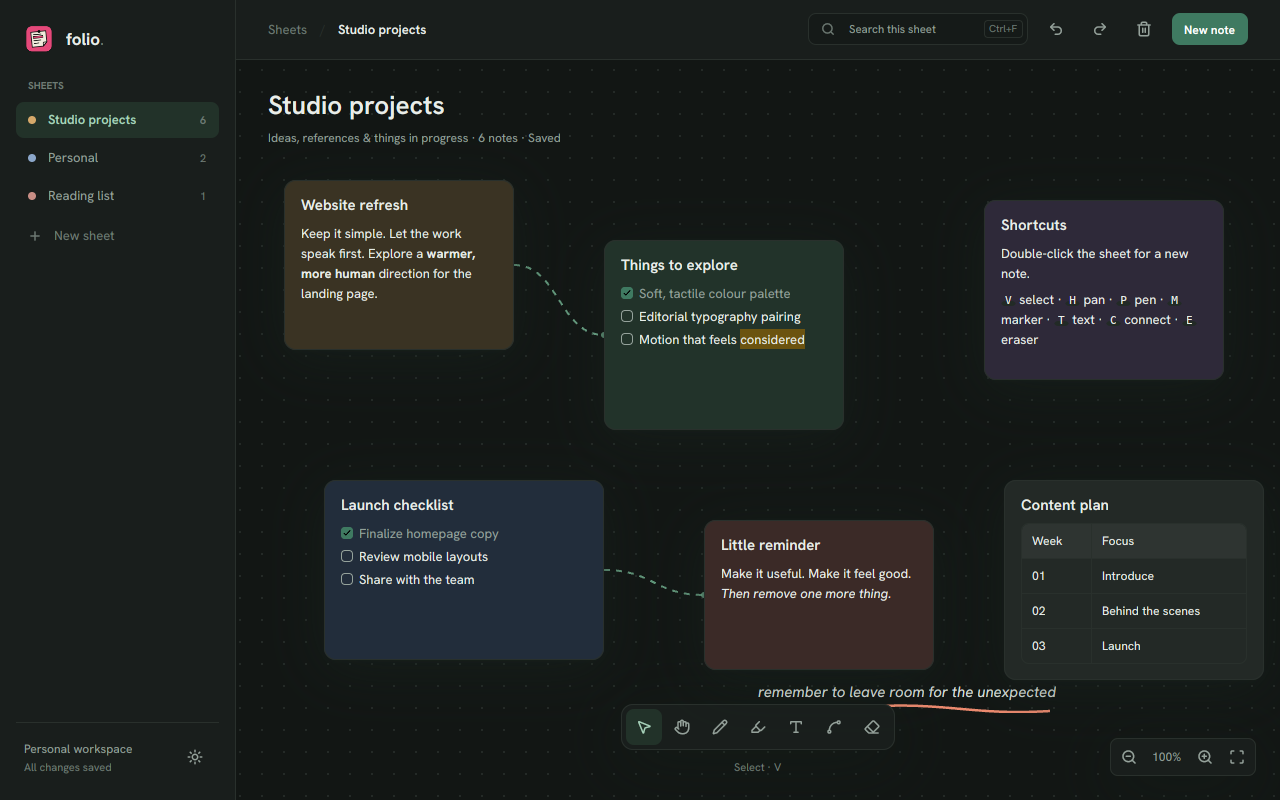
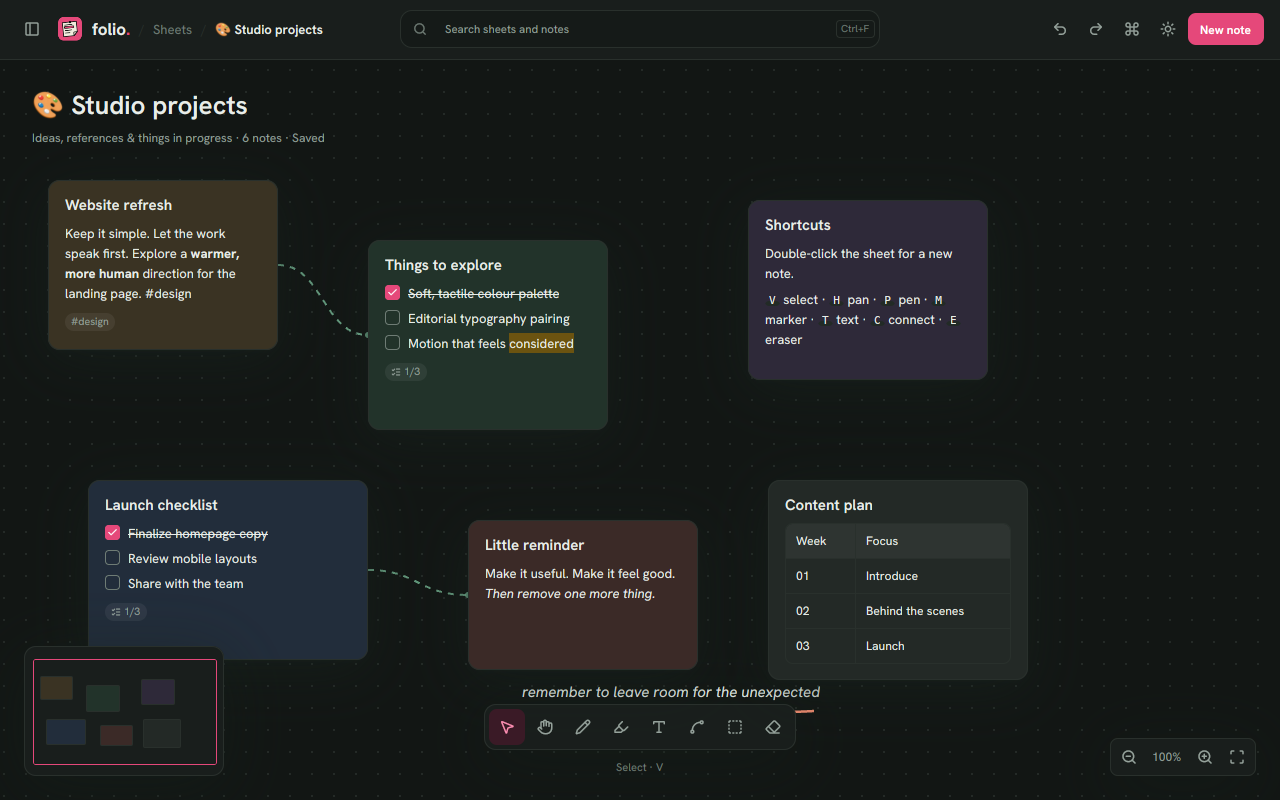
Docs, screenshots and the cursor at the end when editing
- README and docs/PLAN.md describe v0.2: what's built, what's planned,
  and what was only built (not run) for Windows.
- scripts/screenshots.sh walks the new flow: intro, home, drawer, a
  sheet, a note's menu, editing in place, the palette, Settings.
- Editing a note puts the cursor after its text.

Claude-Session: https://claude.ai/code/session_01VKbkuhtmTvU5LvyRBDbfss

diff --git a/src/ui/app.rs b/src/ui/app.rs
@@ -787,7 +787,12 @@ impl Folio {
             self.before = Some(self.board.clone());
         }
         self.title_input.update(cx, |i, cx| i.set_value(title.clone(), window, cx));
-        self.body_input.update(cx, |i, cx| i.set_value(body, window, cx));
+        // The cursor goes to the end of the text, ready to add to it.
+        let end = body.len();
+        self.body_input.update(cx, |i, cx| {
+            i.set_value(body, window, cx);
+            i.set_selected_range(end..end, cx);
+        });
         self.editing = Some(Edit { id, is_new });
         self.menu = None;
         self.select(Selection::Sticker(id));

diff --git a/docs/PLAN.md b/docs/PLAN.md
@@ -13,23 +13,23 @@ and what is still to come.
 
 ### What it has to do
 
-| Capability | v0.1 | Planned |
+| Capability | Built (v0.2) | Planned |
 |---|---|---|
-| Categories as separate sheets, each with its own content and camera | ✅ sidebar, add, rename (double-click), delete (undoable), Ctrl+Tab between them | reorder by drag, sheet colours/icons, archive |
-| Freeform canvas: pan, zoom, drag stickers | ✅ drag to pan, wheel to scroll, Ctrl+wheel zooms at the cursor, zoom to fit; drag and resize stickers; the sticker you drag comes to the front | snapping and alignment guides, multi-select with a marquee, group move |
-| Sticker styling | ✅ 6 papers (light and dark), 3 text sizes, resizable | per-sticker font (sans, serif, mono, hand), border and shadow styles, slight tilt, pin/lock |
-| Plain and rich text | ✅ Markdown: bold, italic, lists, task lists, code, headings | WYSIWYG inline editing on the sticker itself |
-| Coloured text | ✅ coloured **highlights** (`<mark color="green">…</mark>`; 7 named colours, retuned for dark mode) | coloured **foreground** text via a Markdown extension (see §4.1) |
-| Markdown tables | ✅ rendered on the sticker | table editing grid |
-| Images | ✅ PNG, JPEG, WebP, GIF (**animated GIFs play**), SVG (static); drop files on the sheet, paste from the clipboard, or *Add picture…* in the editor | crop, caption, image-only stickers that keep the image's aspect ratio |
-| Animated SVG | ⚠ shown as a still image (first frame) | an SMIL animator: see §4.2 |
-| Text written directly on the sheet | ✅ Text tool (T): italic labels in 5 inks, movable, editable | font size, rotation |
-| Freehand drawing on the sheet | ✅ Pen (P), Marker (M, translucent), Eraser (E); strokes are smoothed and simplified | pressure, shapes (rect, ellipse, arrow, line), lasso select of ink |
-| Lines linking stickers | ✅ Connect (C): drag from one sticker to another; curved, dashed, follow the stickers when they move; drag again to remove | arrowheads, labels on links, straight/elbow styles, links to labels and ink |
-| Search | ✅ dims notes on this sheet that don't match | search across all sheets, with jump-to |
-| Undo / redo | ✅ every content change, 100 steps; camera moves don't count | command-based history (§5.5) |
-| Dark mode | ✅ Ctrl+Shift+L, remembered | follow the system setting |
-| Persistence | ✅ autosaves 350 ms after each change, atomic writes, pictures copied into the workspace folder | SQLite store, backups, export (§6) |
+| Categories as sheets, each with its own content and camera | ✅ home screen of sheet cards with live miniatures (real note titles), Recent/A–Z, pinned first; icon, colour, rename, duplicate, archive, trash; templates (Kanban, weekly planner, brainstorm, meeting notes, reading list); the drawer (hidden sidebar, Ctrl+B); Ctrl+Tab | reorder by drag |
+| Getting a thought down fast | ✅ Ctrl+Alt+N from any app opens a quick-note box → Inbox sheet; tray icon (Windows); start with Windows | a phone companion |
+| Notes visible outside the app | ✅ pin a note to the desktop: its own always-on-top window, ticks sync both ways, remembers where it was | see-through mode |
+| Freeform canvas | ✅ pan (wheel, Space+drag, middle-drag, Hand), zoom at the cursor, zoom to fit; box select, Shift-click, group move; alignment guides; areas that carry their notes; tidy up; arrow keys between notes; a map in the corner | grid snapping |
+| Sticker styling | ✅ 6 papers, 3 sizes, 3 fonts (sans, handwritten, mono), grow-with-text or fixed height (with a "more" fade), lock | slight tilt (needs a custom element) |
+| Editing | ✅ type straight on the note with a format bar (paper, font, size, task, picture, reminder, more); Esc/Done keeps it | WYSIWYG rendering while typing |
+| Tasks | ✅ `- [ ]` lines are real checkboxes you tick with a click, with a done/total chip | |
+| Coloured text | ✅ highlights (`<mark color="green">`), in tasks too | foreground colour (§4.1) |
+| Tables, images, GIFs, SVG | ✅ as before; link cards from a pasted address (page title fetched) | crop, captions; animated SVG (§4.2) |
+| Reminders | ✅ presets (in an hour, this evening, tomorrow morning, Monday); Windows notification + in-app toast; Today strip on the home screen; overdue in red | custom date and time; repeat |
+| Search | ✅ every note on every sheet, by text or `#tag`; jumps to the note; tag chips on the home screen; Ctrl+K palette for commands, sheets and notes | |
+| Right-click menus | ✅ note, empty sheet, area, label, sheet card; Move to sheet | |
+| Safety | ✅ undo (100 steps), Trash (30 days), Archive, a daily backup (14 kept) with restore; "untouched for weeks" hint with keep-fresh | sync |
+| Settings | ✅ theme (light/dark/follow Windows), interface size, high contrast, reduce motion, default paper and font, guides, map, opening animation, open on home/last sheet, start with Windows, quick-note shortcut, data folder, backups | |
+| Opening | ✅ animated logo intro: full the first time, short after, skippable, off in Settings | |
 
 ### Experience principles
 
@@ -334,25 +334,27 @@ any board size. It is also the foundation for sync (§6).
 
 ## 8. Roadmap
 
-**v0.1, this repository.** Sheets, canvas, stickers with Markdown, tables,
-highlights, pictures and GIFs, pen, marker, eraser, labels, links, search,
-undo, dark mode, autosave, the logo.
+**v0.1.** Sheets, canvas, stickers with Markdown, tables, highlights,
+pictures and GIFs, pen, marker, eraser, labels, links, undo, dark mode,
+autosave, the logo.
 
-**v0.2: everyday polish.** Multi-select with a marquee and group move;
-snapping and guides; arrowheads and link labels; sheet reordering; a
-command palette (Ctrl+K) that reaches every action; motion; follow the
-system theme; a sticker context menu (paper, duplicate, front/back, lock).
+**v0.2, this repository.** The home screen and hidden drawer, the opening
+animation, typing on notes, real checkboxes, notes that grow, right-click
+menus, multi-select and guides, areas and templates, reminders and Today,
+search across sheets and tags, Ctrl+K, quick notes from anywhere, notes on
+the desktop, tray and start-up, Trash/Archive/backups, Settings, link
+cards, the handwritten font, high contrast and interface size.
 
-**v0.3: data and scale.** SQLite store and FTS search across sheets;
-R-tree; cached ink tessellation; picture mipmaps; command-based undo;
-backups.
+**v0.3: data and scale.** SQLite store with full-text search; R-tree;
+cached ink tessellation; picture mipmaps; command-based undo; reorder
+sheets by drag.
 
-**v0.4: richer content.** Coloured text; in-place WYSIWYG editing; shape
-tools; animated SVG player; image crop; code blocks with highlighting.
+**v0.4: richer content.** Coloured text; WYSIWYG while typing; shape
+tools; animated SVG player; image crop; custom reminder times and repeats.
 
-**v1.0: ship.** Windows installer and signed build, export
-(PNG/PDF/Markdown), settings, accessibility pass (keyboard navigation
-between stickers, screen-reader labels), crash log.
+**v1.0: ship.** Windows installer and signed build (with its own
+notification identity), export (PNG/PDF/Markdown), screen-reader labels,
+crash log.
 
 ---
 
@@ -373,5 +375,10 @@ between stickers, screen-reader labels), crash log.
   works today.
 - **Ink is drawn beneath stickers** (it annotates the sheet, as asked). A
   per-stroke "on top" layer can come with shape tools.
+- **Windows-only parts were built, not run.** The tray icon, Windows
+  notifications (sent as PowerShell until an installer gives Folio its own
+  identity) and the start-up registry entry compile into the `.exe` but
+  haven't been seen on a real Windows; Wine has no tray to look at. The
+  Ctrl+Alt+N shortcut and desktop notes were tested on Linux (X11).
 - **Drop position:** GPUI's drop event carries no position, so dropped files
   land at the last pointer position over the sheet.

diff --git a/README.md b/README.md
@@ -3,13 +3,27 @@
 # Folio
 
 Sticky notes on endless sheets: one sheet per category, like worksheets in a
-workbook. Drag notes around, write Markdown (tables, task lists, coloured
-highlights), pin pictures and animated GIFs, draw on the sheet, write on it,
-and link notes with curved connectors. Written in Rust on
-[GPUI](https://www.gpui.rs/) (through `gpui-kit`) for a GPU-drawn,
-low-latency canvas.
+workbook. Written in Rust on [GPUI](https://www.gpui.rs/) (through
+`gpui-kit`) for a GPU-drawn, low-latency canvas.
 
-![Folio, light](docs/screenshots/sheet-light.png)
+![Folio home screen](docs/screenshots/home-light.png)
+
+- **Home:** every sheet as a card with a live miniature, today's reminders,
+  your #tags, and search across every note. The sheets drawer stays hidden
+  until you want it (top-left button or Ctrl+B).
+- **Notes:** type straight onto them; Markdown with tables, task lists you
+  tick with a click, coloured highlights, pictures and animated GIFs, link
+  cards; notes grow with their text; reminders; lock; a handwritten font.
+- **The sheet:** pan and zoom, box-select and move groups with alignment
+  guides, areas (Kanban columns, days of the week…), pen, marker, eraser,
+  text on the sheet, curved links between notes, tidy up, a map.
+- **Everywhere:** Ctrl+K for commands, sheets and notes; Ctrl+Alt+N from
+  any app for a quick note into your Inbox; notes pinned to the desktop
+  above other windows; a tray icon and starting with Windows.
+- **Safe:** undo, a Trash that keeps things 30 days, an Archive, and a
+  backup every day (the last 14 kept) you can restore from.
+
+![Folio, a sheet in dark mode](docs/screenshots/sheet-dark.png)
 
 ## Run it
 
@@ -27,14 +41,24 @@ and a `media/` folder for pictures.
 
 ## Use it
 
-- **Double-click** the sheet for a new note; double-click a note to edit it.
-- **Drag** a note to move it, drag its corner to resize, drag the empty
-  sheet to pan, **Ctrl+wheel** to zoom.
-- **Tools** (dock at the bottom): `V` select, `H` pan, `P` pen, `M` marker,
-  `T` text on the sheet, `C` connect two notes, `E` eraser.
-- **Drop** pictures or `.md`/`.txt` files on a sheet, or **paste** them.
-- `Ctrl+Z` / `Ctrl+Shift+Z` undo and redo, `Ctrl+F` search, `Ctrl+0` zoom to
-  fit, `Ctrl+Shift+L` dark mode, `Ctrl+Tab` next sheet.
+| | |
+|---|---|
+| Double-click the sheet | A new note, ready to type into |
+| Double-click a note, or Enter | Type into it; Esc or Done to finish |
+| Right-click | A note's, the sheet's, an area's or a card's menu |
+| Drag the empty sheet | Select a group; Space+drag, middle-drag or the wheel pans |
+| Ctrl+wheel | Zoom |
+| `V H P M T C F E` | Select, pan, pen, marker, text, connect, area, eraser |
+| Arrows | Move between notes |
+| Ctrl+K | Commands, sheets and notes |
+| Ctrl+Alt+N | Quick note from any app |
+| Ctrl+N / Ctrl+Shift+N | New note / new sheet |
+| Ctrl+B | The sheets drawer |
+| Ctrl+Z / Ctrl+Shift+Z | Undo / redo |
+| Ctrl+, | Settings |
+
+Drop pictures or `.md`/`.txt` files on a sheet, or paste them; paste a web
+address for a link card.
 
 See [docs/PLAN.md](docs/PLAN.md) for the product and architecture plan and
 the roadmap.
@@ -64,4 +88,4 @@ scripts/icons.sh            # logo SVGs → PNGs and the Windows .ico
 ```
 
 Dependencies are pinned to exact versions. Icons are Lucide (ISC); the fonts
-are Hanken Grotesk and JetBrains Mono (OFL).
+are Hanken Grotesk, JetBrains Mono and Comic Neue (OFL).
